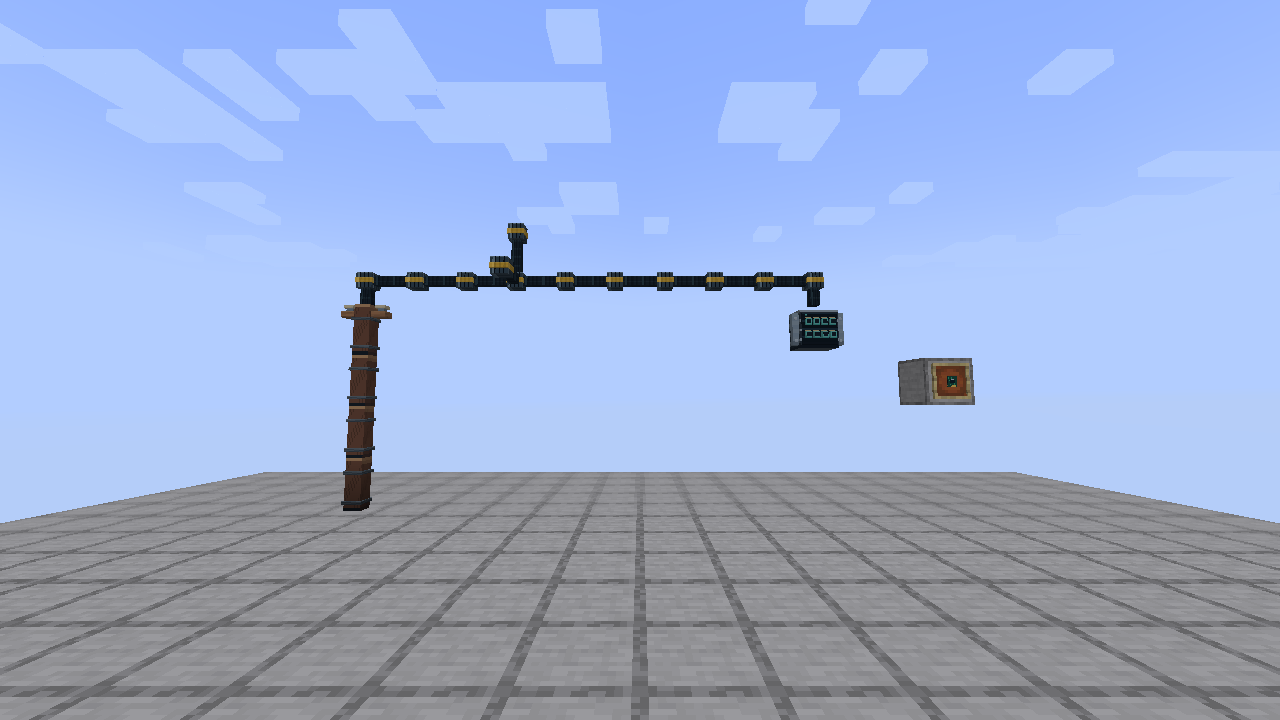
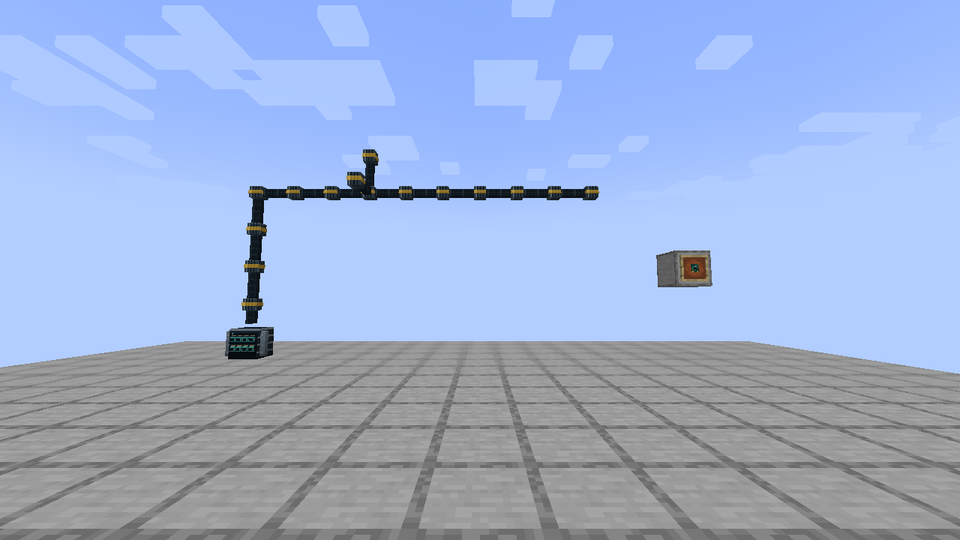
Add router_village lab; document the rebuilt Tech Villages
- router_village: village 5's real startup files on real cables (ISP DOWN
  to a home router's WAN through a buried run, UP-to-UP patch cable to the
  PC, server on the ISP's UP face), cut-cable control; GameTest in
  ecm_router_scenarios.
- Validation doc: receipts for JUnit, simulator, both GameTest namespaces
  and three client-suite worlds; new screenshots of every ISP style, a
  house desk, the fiber at the mast, in terrain and over a valley.

Changed region(s): [[0.0, 0.2667, 1.0, 1.0], [0.1562, 0.0, 0.7812, 0.2074], [0.5312, 0.0, 0.5938, 0.0296]]

diff --git a/src/main/java/com/example/evanscomputermod/testing/scenario/RouterScenarios.java b/src/main/java/com/example/evanscomputermod/testing/scenario/RouterScenarios.java
@@ -22,6 +22,7 @@ public final class RouterScenarios {
     add(bgp(2, true));
     //? if <=1.21.1 {
     add(headless());
+    add(village());
     //?}
   }
 
@@ -684,6 +685,55 @@ public final class RouterScenarios {
   }
 
   //? if <=1.21.1 {
+  /**
+   * A Tech Village network in miniature, with the exact startup files of village 5 and
+   * real cables (no lab leads): ISP router DOWN (eth0, village access + DHCP) to a home
+   * router's DOWN (eth0, WAN DHCP + NAT) through a buried run; the home router's UP (eth1,
+   * LAN) to the PC's UP over a patch cable; ISP UP (eth1) to the server's UP.
+   */
+  private static Scenario village() {
+    var b =
+        Scenario.builder(
+                "router_village",
+                "Tech Village wiring: buried village cable from the ISP's DOWN face to a home"
+                    + " router's WAN, patch cable over the router and PC (LAN), server on the"
+                    + " ISP's UP face. Same files as village 5. Control: cut the village cable.")
+            .timeLimit(55_000);
+    b.host("isp", new BlockPos(0, 1, 0), null);
+    b.host("server", new BlockPos(2, 1, 0), null);
+    b.host("home", new BlockPos(6, 1, 0), null);
+    b.host("pc", new BlockPos(7, 1, 0), null);
+    b.link("server-lan", "isp", net.minecraft.core.Direction.UP, "server", net.minecraft.core.Direction.UP,
+        Scenario.Path.from(new BlockPos(0, 2, 0)).go(net.minecraft.core.Direction.EAST, 2));
+    b.link("village-cable", "isp", net.minecraft.core.Direction.DOWN, "home", net.minecraft.core.Direction.DOWN,
+        Scenario.Path.from(new BlockPos(0, 0, 0)).go(net.minecraft.core.Direction.DOWN, 1)
+            .go(net.minecraft.core.Direction.EAST, 6).go(net.minecraft.core.Direction.UP, 1));
+    b.link("home-lan", "home", net.minecraft.core.Direction.UP, "pc", net.minecraft.core.Direction.UP,
+        Scenario.Path.from(new BlockPos(6, 2, 0)).go(net.minecraft.core.Direction.EAST, 1));
+    b.decor(
+        setup(
+            Map.of(
+                "isp", WorldNetwork.configs(5, "isp.router"),
+                "server", WorldNetwork.configs(5, "isp.server"),
+                "home", WorldNetwork.configs(5, "house1.router"),
+                "pc", WorldNetwork.configs(5, "house1.pc"))));
+    b.note(
+        "Terminals boot with village 5's files: cat router.cfg on isp and home, cat network.cfg"
+            + " on pc. DOWN is eth0 and UP is eth1 on every terminal.");
+    b.until("pc", "ifconfig eth1", "inet 192\\.168\\.1\\.\\d+", "the PC leased a home LAN address");
+    b.expect("pc", "/ >", "shell");
+    b.until("home", "ifconfig eth0", "inet 100\\.69\\.1\\.\\d+", "the home router's WAN leased from the ISP over the village cable");
+    b.expect("home", "/ >", "shell");
+    ping(b, "pc", "100.69.0.10", 2, 2, "PC reaches the village server through home NAT and the ISP");
+    b.send("pc", "curl http://100.69.0.10/index.html");
+    b.expect("pc", "Tech Village 5", "the village server's page");
+    b.expect("pc", "/ >", "shell");
+    b.cut("village-cable", 3, "Dig up the village cable under the street: the house loses the ISP.");
+    b.waitMs(1500, "carrier loss");
+    ping(b, "pc", "100.69.0.10", 1, 0, "control: no path without the village cable");
+    return b.build();
+  }
+
   private static Scenario headless() {
     var b =
         nodes(

diff --git a/src/main/java/com/example/evanscomputermod/testing/v1211/RouterScenarioTests.java b/src/main/java/com/example/evanscomputermod/testing/v1211/RouterScenarioTests.java
@@ -93,5 +93,13 @@ public final class RouterScenarioTests {
   public static void fiber(GameTestHelper h) {
     run(h, "router_fiber");
   }
+
+  @GameTest(
+      template = TestDriver.STRUCTURE,
+      timeoutTicks = TestDriver.BACKSTOP_TICKS,
+      batch = "ecm_router_scenarios.village")
+  public static void village(GameTestHelper h) {
+    run(h, "router_village");
+  }
 }
 //?}

diff --git a/docs/TECH_VILLAGE_VALIDATION.md b/docs/TECH_VILLAGE_VALIDATION.md
@@ -83,10 +83,42 @@ reports the missing structure and cancels instead of placing the player along
 fiber. Natural-generation/render checks target Minecraft 1.21.1; Minecraft 26.1
 receives the shared router protocols, models and playable protocol labs.
 
-Representative screenshots from the successful real-client receipt:
+The screenshots that used to follow this section showed the old plank village and
+utility poles; both were replaced by the rebuild below.
 
-![Connected fiber, stacked pole, patch panel and module](images/tech-fiber-connected.png)
+## Vanilla villages, buried village cable and the generated fiber ring
 
-![The removed east neighbor removes the center's east arm](images/tech-fiber-disconnected.png)
+The rebuild (branch `feature/tech-village-v2`) was tested on Windows on
+2026-10-10. Every run uses natural generation in a fresh world, except the GameTest
+world, which has structures disabled (there the village is generated at its planned
+site the way `/place structure` does).
 
-![Village teleport faces the actual ISP doorway](images/tech-village-entrance.png)
+| Check | Executed result | Receipt directory |
+|---|---|---|
+| `FiberLineTest` (26.1 JUnit) | 5 tests: face-connected chords and drift, naive-diagonal control, packing, ring index, canonical arms, cut/repair bookkeeping | `fiber-line-20261010-034813` |
+| Simulator `17_bgp_ring10` | Passed with the village port plan and 60/180 s timers: a cut reroutes within 10 s (carrier loss drops the session), isolation control | `ring-sim-20261010-023541` |
+| `ecm_router` (1.21.1) | 6 GameTests, including the village network with a house PC online over the real cable, fiber cut/repair in a generated superflat chunk, and ten headless villages rerouting after cuts 8-9 and 2-3 | `tech-router-20261010-035445` |
+| `ecm_router_scenarios` (1.21.1) | All 11 labs, including the pole-free `router_fiber` and the new `router_village` (real village cabling with village 5's files, cut-cable control) | `router-labs-20261010-040224` |
+| Client suite, normal world seed 73198425 | Villages 2 (plains) and 3 (desert) natural; 4279-block chord walked; cut: traceroute 4 -> 12 hops; repair: back to 4; 11 paired screenshots | `tech-client-20261010-035540` |
+| Client suite, superflat | Villages 1 and 2 (plains); 4305-block chord; same reroute; 7 paired screenshots | `tech-client-flat-20261010-035832` |
+| Client suite, normal world seed 123456 | Plains and snowy villages; savanna ISP photographed; chord walk that first exposed the chunk-border arm bug | `tech-client-seed123456-20261010-035026` |
+
+![Plains ISP grown into a vanilla village](images/tech-isp-plains.png)
+
+![Desert ISP](images/tech-isp-desert.png)
+
+![Taiga ISP](images/tech-isp-taiga.png)
+
+![Savanna ISP](images/tech-isp-savanna.png)
+
+![House router and PC with the patch cable over their UP faces](images/tech-house-desk.png)
+
+![Fiber leaving the mast top in both directions](images/tech-fiber-mast.png)
+
+![Fiber carving into a hillside](images/tech-fiber-terrain.png)
+
+![Fiber floating over a valley](images/tech-fiber-valley.png)
+
+![Fiber model fixture: free-standing riser on a patch panel and a six-way joint](images/tech-fiber-connected.png)
+
+![Teleport arrival outside the ISP door, with the provisioned sign](images/tech-village-entrance.png)

diff --git a/docs/ROUTER.md b/docs/ROUTER.md
@@ -36,9 +36,9 @@ without the presentation delay. For example:
 ```
 
 `clear` removes the placed blocks and lab leads; save your own work before
-spawning a lab because its marked footprint is cleared. All ten definitions
+spawning a lab because its marked footprint is cleared. All eleven definitions
 also run as `ecm_router_scenarios` GameTests on Minecraft 1.21.1. Protocol labs
-are available in both versions; headless reattachment is 1.21.1-specific.
+are available in both versions; headless reattachment and `router_village` are 1.21.1-specific.
 
 | Scenario | What to test and expected result |
 |---|---|
@@ -52,6 +52,7 @@ are available in both versions; headless reattachment is 1.21.1-specific.
 | `router_internet` | A static `10.0.0.50` client (the Internet Gateway serves no DHCP) plus a real host TCP socket returns `host-socket-ok` from an isolated local HTTP fixture. Read `cat gateway-test-url.txt` and curl its URL. Requires an active host IPv4 interface; public Internet is unnecessary for this check. |
 | `router_headless` | An installed Always-On Module preserves the same running kernel and a child during detach/reattach. In manual mode fly far enough to unload its chunk, inspect `/ecm headless list`, return and run `echo after-reattach`. |
 | `router_fiber` | Inspect the patch panel with a free-floating fiber riser on it and the installed module. All six center fiber arms connect. Break the east neighbor: only the east arm disappears. Replace it: the arm returns. The riser joins the panel below and has no open arm at its top. Connection properties survive block-state serialization. |
+| `router_village` | A Tech Village network in miniature with village 5's startup files and real cables: the ISP's DOWN face feeds a buried cable to a home router's DOWN face (WAN DHCP), a patch cable joins the home router's and PC's UP faces (LAN), the server hangs off the ISP's UP face. The PC leases `192.168.1.x`, the home router `100.69.1.x`; ping and `curl` reach `100.69.0.10`. Cut the village cable: the ping fails. |
 
 Ring failure controls work in Minecraft chat, and affect the most recently
 spawned lab:

diff --git a/README.md b/README.md
@@ -28,13 +28,14 @@ Design and rationale: [`docs/refactor/ARCHITECTURE.md`](docs/refactor/ARCHITECTU
 ### Routing and Tech Villages
 
 Terminals can run an IPv4 router with DHCP, NAT and BGP using `router on` and
-`router`. The 1.21.1 build also generates ten Tech Villages connected by a fiber
-ring, with twenty server-owned ISP/router computers that keep running outside
-loaded chunks. Player terminals can use an Always-On bay module. Windows servers
+`router`. The 1.21.1 build also generates ten Tech Villages (vanilla villages of
+the local biome's style grown from an ISP building, with networked homes on a
+buried village cable) connected by a generated long-distance fiber ring, with
+twenty server-owned ISP/router computers that keep running outside loaded chunks. Player terminals can use an Always-On bay module. Windows servers
 have a socket-based internet gateway without a TAP driver.
 
 See **[the router guide](docs/ROUTER.md)** for CLI contexts, complete LAN/WAN and
-BGP examples, port forwarding, DHCP leases, routing policies, customer ports,
+BGP examples, port forwarding, DHCP leases, routing policies, getting online in a village,
 player AS peering, village commands, persistence and implementation details.
 
 ### Kernel ↔ host ABI
